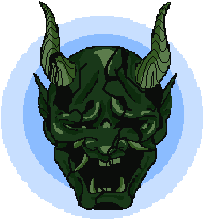
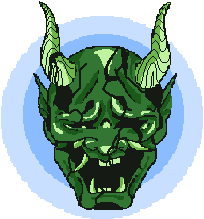
Organizando Mask e Projétil com Bezier

Changed region(s): [[0.1765, 0.0, 0.8529, 0.9589]]

diff --git a/src/MaskBoss.cpp b/src/MaskBoss.cpp
@@ -2,8 +2,21 @@
 #include "Game.h"
 
 MaskBoss::MaskBoss(GameObject& associated) : GameObject(associated){
-    MAXMOVETIME = 5.0f;
-    flag = 0;
+    CURR_STATE = INACTIVED;
+    CURR_PHASE = PHASE1;
+    CURR_MASK = Rand::Get() % 3;
+
+    MAX_HP = 500;
+    hp = MAX_HP;
+
+    MOVETIME = 4.5f;
+    MOVELOOP = -1;
+    CURVEIDX = 0;
+
+    RESTTIME = 2.0f;
+
+    SWAPTIME = 0.5f;
+    SWAPED = false;
 
     Vec2 p1 = Vec2(947, 346);
     Vec2 p2 = Vec2(-106, 646);
@@ -17,50 +30,130 @@ MaskBoss::MaskBoss(GameObject& associated) : GameObject(associated){
     std::vector<Vec2> points2 = {p1, p5, p6, p4};
     curves.push_back(new Bcurve(points2));
 
-    idx = 0;
-
     auto stmac = new StateMachine(associated);
     associated.AddComponent(stmac);
 
-    auto anm = new AnimNode("assets/img/Masks/Red.png", 1, 1, Vec2(1,1), false, false);
-    anm->SetScaleX(1.5,1.5);
-    stmac->AddNode(RED, anm);
+    int mask[] = {GREEN, RED, YELLOW, GREEN+PHASE2, RED+PHASE2, YELLOW+PHASE2};
+    std::vector<string> fileName {"Green", "Red", "Yellow", "GreenBroken", "RedBroken", "YellowBroken"};
+    string path = "assets/img/Masks/", ext = ".png";
+    for(int i = 0; i < 6; i++){
+        auto anm = new AnimNode(path + fileName[i] + ext, 1, 1);
+        anm->SetScaleX(1.5, 1.5);
+        stmac->AddNode(mask[i], anm);
 
-    anm = new AnimNode("assets/img/Masks/Yellow.png", 1, 1, Vec2(1,1), false, false);
-    anm->SetScaleX(1.5,1.5);
-    stmac->AddNode(YELLOW, anm);
+        anm = new AnimNode(path + fileName[i] + "D" + ext, 1, 1);
+        anm->SetScaleX(1.5, 1.5);
+        stmac->AddNode(mask[i] + DARK, anm);
+    }
 
-    anm = new AnimNode("assets/img/Masks/Green.png", 1, 1, Vec2(1,1), false, false);
-    anm->SetScaleX(1.5,1.5);
-    stmac->AddNode(GREEN, anm);
-    stmac->ChangeState(GREEN);
-    t.SetFinish(MAXMOVETIME);
-    t.Restart();
+    stmac->ChangeState(CURR_MASK + DARK);
+    timer.Restart();
+}
+
+void MaskBoss::Activate(){
+    auto& currstate = Game::GetInstance().GetCurrentState();
+    auto target = currstate.GetObject(C_ID::Player, &currstate.rigidArray);
+    if(target.lock().get()->box.GetCenter().Distance(associated.box.GetCenter()) < 800){
+        auto stmac = (StateMachine*) associated.GetComponent(C_ID::StateMachine);
+        stmac->ChangeState(CURR_MASK);
+        CURR_STATE = MOVING;
+    }
+}
+
+void MaskBoss::Moving(float dt){
+    Vec2 pos;
+    if(MOVELOOP == -1){
+        MOVELOOP = 0;
+        CURVEIDX = Rand::Get() % 2;
+        timer.SetFinish(MOVETIME);
+        timer.Restart();
+    }
+
+    if(timer.Update(dt) && MOVELOOP < 2){
+        pos = curves[CURVEIDX]->GetNewPoint(1.0f);
+        associated.box.SetCenter(pos.x, pos.y);
+        CURVEIDX = !CURVEIDX;
+        MOVELOOP++;
+        timer.Restart();
+    }
+    else if(MOVELOOP < 2){
+        float t = timer.Get() / MOVETIME;
+        pos = curves[CURVEIDX]->GetNewPoint(t);
+        associated.box.SetCenter(pos.x, pos.y);
+    }
+    else{
+        MOVELOOP = -1;
+
+        auto stmac = (StateMachine*) associated.GetComponent(C_ID::StateMachine);
+        stmac->ChangeState(CURR_MASK + CURR_PHASE + DARK);
+        CURR_STATE = IDLE;
+
+        timer.SetFinish(RESTTIME);
+        timer.Restart();
+    }
+}
+
+void MaskBoss::Resting(float dt){
+    if(CURR_PHASE == PHASE1 && hp < MAX_HP/2)
+        CURR_PHASE = PHASE2;
+    if(timer.Update(dt)){
+        auto stmac = (StateMachine*) associated.GetComponent(C_ID::StateMachine);
+        stmac->ChangeState(CURR_MASK + CURR_PHASE);
+        CURR_STATE = SWAPPING;
+    }
+}
+
+void MaskBoss::Swapping(float dt){
+    if(!SWAPED){
+        vector<int> swapMask;
+        if(CURR_MASK == RED)
+            swapMask.assign({GREEN, YELLOW});
+        else if(CURR_MASK == GREEN)
+            swapMask.assign({RED, YELLOW});
+        else
+            swapMask.assign({GREEN, RED});
+
+        auto stmac = (StateMachine*) associated.GetComponent(C_ID::StateMachine);
+        CURR_MASK = swapMask[Rand::Get() % 2];
+        stmac->ChangeState(CURR_MASK + CURR_PHASE);
+
+        timer.SetFinish(SWAPTIME);
+        timer.Restart();
+        SWAPED = true;
+    }
+    if(timer.Update(dt)){
+        CURR_STATE = MOVING;
+        SWAPED = false;
+    }
 }
 
 void MaskBoss::Update(float dt){
-    auto& currstate = Game::GetInstance().GetCurrentState();
-    auto stmac = (StateMachine*)associated.GetComponent(C_ID::StateMachine);
-    Vec2 pos;
-    if(t.Update(dt) && flag < 2){
-        pos = curves[idx]->GetNewPoint(1.0f);
-        GameObject* goSpt = new GameObject();
-        associated.box.SetCenter(pos.x, pos.y);
-        t.Restart();
-        idx = !idx;
-        flag++;
-        if(flag == 2){
-            stmac->ChangeState(Rand::Get() % 3);
-            flag = 0;
-        }
+    switch(CURR_STATE){
+        case INACTIVED:
+            Activate();
+            break;
+        case MOVING:
+            Moving(dt);
+            break;
+        case IDLE:
+            Resting(dt);
+            break;
+        case CHARGING:
+            break;
+        case ATKING:
+            break;
+        case SWAPPING:
+            Swapping(dt);
+            break;
+        default:
+            break;
     }
-    else if(flag < 2){
-        float x = t.Get() / MAXMOVETIME;
-        pos = curves[idx]->GetNewPoint(x);
-        associated.box.SetCenter(pos.x, pos.y);
-    }
-    cout << associated.box.GetCenter() << endl;
 }
 
-bool MaskBoss::Is(C_ID type)
-{ return type == C_ID::Mask; }
+bool MaskBoss::Is(C_ID type){
+    return type == C_ID::Mask;
+}
+
+void MaskBoss::TakeDamage(int damage){
+    if((hp -= damage) < 0) hp = 0;
+}

diff --git a/src/ProjectileB.cpp b/src/ProjectileB.cpp
@@ -1,0 +1,57 @@
+#include "ProjectileB.h"
+
+ProjectileB::ProjectileB(GameObject& associated, Bcurve* curve, float lifeTime, float maxMoveTime,
+            int damage, float angleOffset, bool rotSprt)
+    : GameObject(associated)
+{
+    trajectory = curve;
+    if(rotSprt){
+        velocity = curve->GetDerivate();
+        Vec2 direction = velocity->GetNewPoint(0.0f);
+        associated.angleDeg = direction.AngleX() * PI_DEG + angleOffset;
+    }
+
+    lifeTimeCount.Restart();
+    lifeTimeCount.SetFinish(lifeTime);
+
+    MOVEDURATION = maxMoveTime;
+    movingTimer.Restart();
+    movingTimer.SetFinish(maxMoveTime);
+
+    this->damage = damage;
+    this->angleOffset = angleOffset;
+    this->rotSprt = rotSprt;
+}
+
+void ProjectileB::Update(float dt){
+    Vec2 pos, dir;
+    if(lifeTimeCount.Update(dt))
+        associated.RequestDelete();
+    else{
+        if(movingTimer.Update(dt)){
+            pos = trajectory->GetNewPoint(1.0f);
+            if(rotSprt)
+                dir = velocity->GetNewPoint(1.0f);
+        }
+        else{
+            float t = movingTimer.Get() / MOVEDURATION;
+            pos = trajectory->GetNewPoint(t);
+            if(rotSprt)
+                dir = velocity->GetNewPoint(t);
+        }
+        associated.box.SetCenter(pos.x, pos.y);
+        if(rotSprt)
+            associated.angleDeg = dir.AngleX() * PI_DEG + angleOffset;
+    }
+}
+
+void ProjectileB::Render(){
+}
+
+bool ProjectileB::Is(C_ID type){
+    return type == C_ID::ProjectileB;
+}
+
+int ProjectileB::GetDamage(){
+    return damage;
+}

diff --git a/include/MaskBoss.h b/include/MaskBoss.h
@@ -6,18 +6,33 @@
 #include "Rand.h"
 
 class MaskBoss : public GameObject {
-    public:
-        enum {PHASE1, PHASE2, PHASE3};
-        enum {RED, GREEN, YELLOW};
-        enum {IDLE, MOVE, CHARGE, ATK1, ATK2, CHANGE};
-        enum {LEFT, CENTER, RIGHT};
-        Timer t;
-        int idx, flag;
+    private:
+        enum {GREEN, RED, YELLOW, DARK = 3};
+        enum {PHASE1 = 0, PHASE2 = 6};
+        enum {INACTIVED, MOVING, IDLE, CHARGING, ATKING, SWAPPING};
 
-        float MAXMOVETIME;
+        int MAX_HP;
+        int hp;
+
+        float MOVETIME;
+        int CURVEIDX, MOVELOOP;
         vector<Bcurve*> curves;
 
+        float RESTTIME;
+
+        float SWAPTIME;
+        bool SWAPED;
+
+        int CURR_MASK, CURR_PHASE, CURR_STATE;
+        Timer timer;
+        void _CreateStateMac();
+        void Activate();
+        void Moving(float dt);
+        void Resting(float dt);
+        void Swapping(float dt);
+    public:
         MaskBoss(GameObject&);
         void Update(float);
         bool Is(C_ID);
+        void TakeDamage(int damage);
 };

diff --git a/src/Bcurve.cpp b/src/Bcurve.cpp
@@ -8,6 +8,11 @@ void Bcurve::binomial(int n){
     }
 }
 
+Bcurve::Bcurve(std::vector<Vec2> points, int n) : Bcurve(points){
+    std::transform(binom.begin(), binom.end(), binom.begin(),
+        std::bind(std::multiplies<int>(), std::placeholders::_1, n));
+}
+
 Bcurve::Bcurve(std::vector<Vec2> points){
     int n = points.size();
     if(n > 0){
@@ -20,10 +25,21 @@ Vec2 Bcurve::GetNewPoint(float t){
     Vec2 newPoint = Vec2(0, 0);
     int n = points.size() - 1;
 
-    for(int i = 0; i < points.size(); i++){
+    for(unsigned i = 0; i < points.size(); i++){
         newPoint.x += binom[i] * std::pow((1-t), (n-i)) * std::pow(t, i) * points[i].x;
         newPoint.y += binom[i] * std::pow((1-t), (n-i)) * std::pow(t, i) * points[i].y;
     }
 
     return newPoint;
+}
+
+Bcurve* Bcurve::GetDerivate(){
+    std::vector<Vec2> newPoints;
+    int n = points.size() - 1;
+
+    for(unsigned i = 0; i < points.size() - 1; i++)
+        newPoints.push_back(points[i+1] - points[i]);
+    
+    Bcurve* derivate = new Bcurve(newPoints, n);
+    return derivate;
 }

diff --git a/include/ProjectileB.h b/include/ProjectileB.h
@@ -1,0 +1,23 @@
+#pragma once
+#include "GameObject.h"
+#include "Timer.h"
+#include "Bcurve.h"
+#include "Vec2.h"
+
+class ProjectileB : public GameObject {
+    private:
+        float MOVEDURATION;
+        float angleOffset;
+        Timer lifeTimeCount, movingTimer;
+        int damage;
+        Bcurve* trajectory;
+        Bcurve* velocity;
+        bool rotSprt = false;
+    public:
+        ProjectileB(GameObject& associated, Bcurve* curve, float lifeTime,
+            float maxMoveTime, int damage, float angleOffset = 0.0f, bool rotSprt = false);
+        void Update(float dt);
+        void Render();
+        bool Is(C_ID type);
+        int GetDamage();
+};

diff --git a/include/Bcurve.h b/include/Bcurve.h
@@ -2,6 +2,7 @@
 #include "Vec2.h"
 #include <vector>
 #include <algorithm>
+#include <functional>
 #include <cmath>
 
 class Bcurve {
@@ -9,7 +10,9 @@ class Bcurve {
         std::vector<int> binom;
         std::vector<Vec2> points;
         void binomial(int n);
+        Bcurve(std::vector<Vec2> points, int n);
     public:
         Bcurve(std::vector<Vec2> points);
         Vec2 GetNewPoint(float t);
+        Bcurve* GetDerivate();
 };

diff --git a/include/Vec2.h b/include/Vec2.h
@@ -11,6 +11,7 @@ using namespace std;
 #define p(x) cout << #x << ": " << x <<" ";
 
 #define PI 3.14159265358979323846
+#define PI_DEG 180.0f / PI
 const float _f_leniancy = 0.005f;
 
 class Vec2 {

diff --git a/include/ObjectId.h b/include/ObjectId.h
@@ -28,5 +28,6 @@ enum class C_ID
     Hurtbox,
     TimeBomb,
     ShakeBehavior,
-    Mask
+    Mask,
+    ProjectileB
 };
